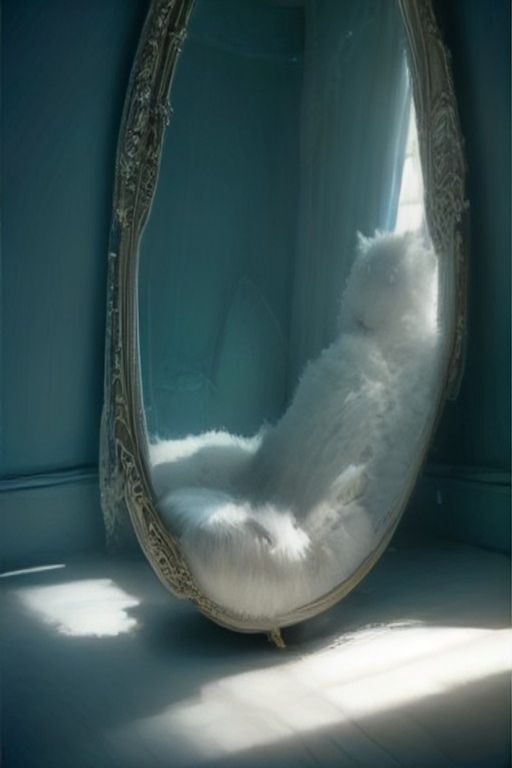
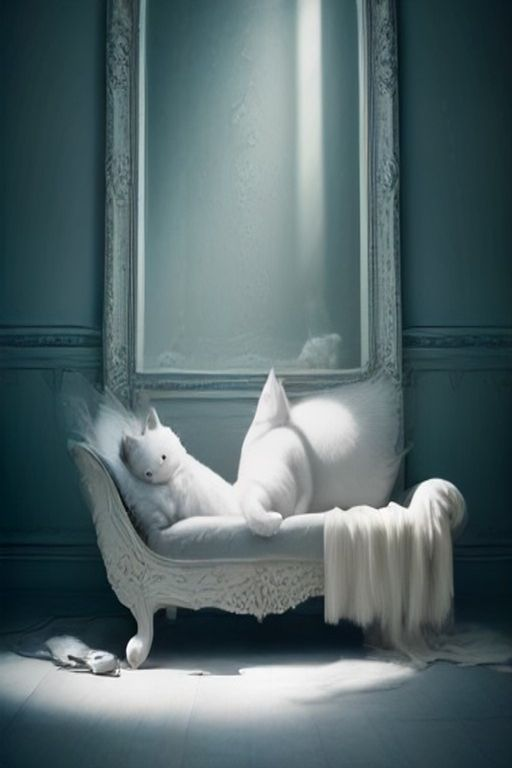
Fix Laziness cat — previous version had no visible cat features
The prior "fluffy cat" prompt rendered as a shapeless white fur blob
with no ears, face, or tail visible. Added explicit feature
descriptors (pointed ears, small face, whiskers, curled tail, paws)
so the animal actually reads as a cat.

Claude-Session: https://claude.ai/code/session_01HyWKo76tCQmocMTMgJUf5o

diff --git a/prompts/card-image-prompts.md b/prompts/card-image-prompts.md
@@ -182,7 +182,7 @@ blurry, extra limbs, frame, border
    Prompt: A single water droplet sliding off a lotus leaf into calm water, gentle expanding ripples fading into stillness. Soft blue-grey palette, quiet release.
 
 9. **wcard9.jpg — 安逸 Laziness**
-   Prompt: A fluffy cat lounging lazily and stretched out on a cushioned lounge chair, eyes half-closed in total contentment, unaware that the ornate mirror behind it is quietly cracked. No people. Cool blues with a subtle uneasy fracture of light.
+   Prompt: A white cat, clearly visible pointed triangular ears, a small face with closed eyes and whiskers, a long curled tail, and paws tucked in front, lounging lazily stretched out on a cushioned lounge chair. Unaware that the ornate mirror behind it is quietly cracked. No people. Cool blues with a subtle uneasy fracture of light.
 
 10. **wcard10.jpg — 和諧 Harmony**
     Prompt: Abstract illustration, no figure, no person, no human anatomy: two dolphins made of soft light swimming in a gentle figure-eight/infinity loop around each other, like a minimalist logo. Cool aqua-violet palette, inner balance.
